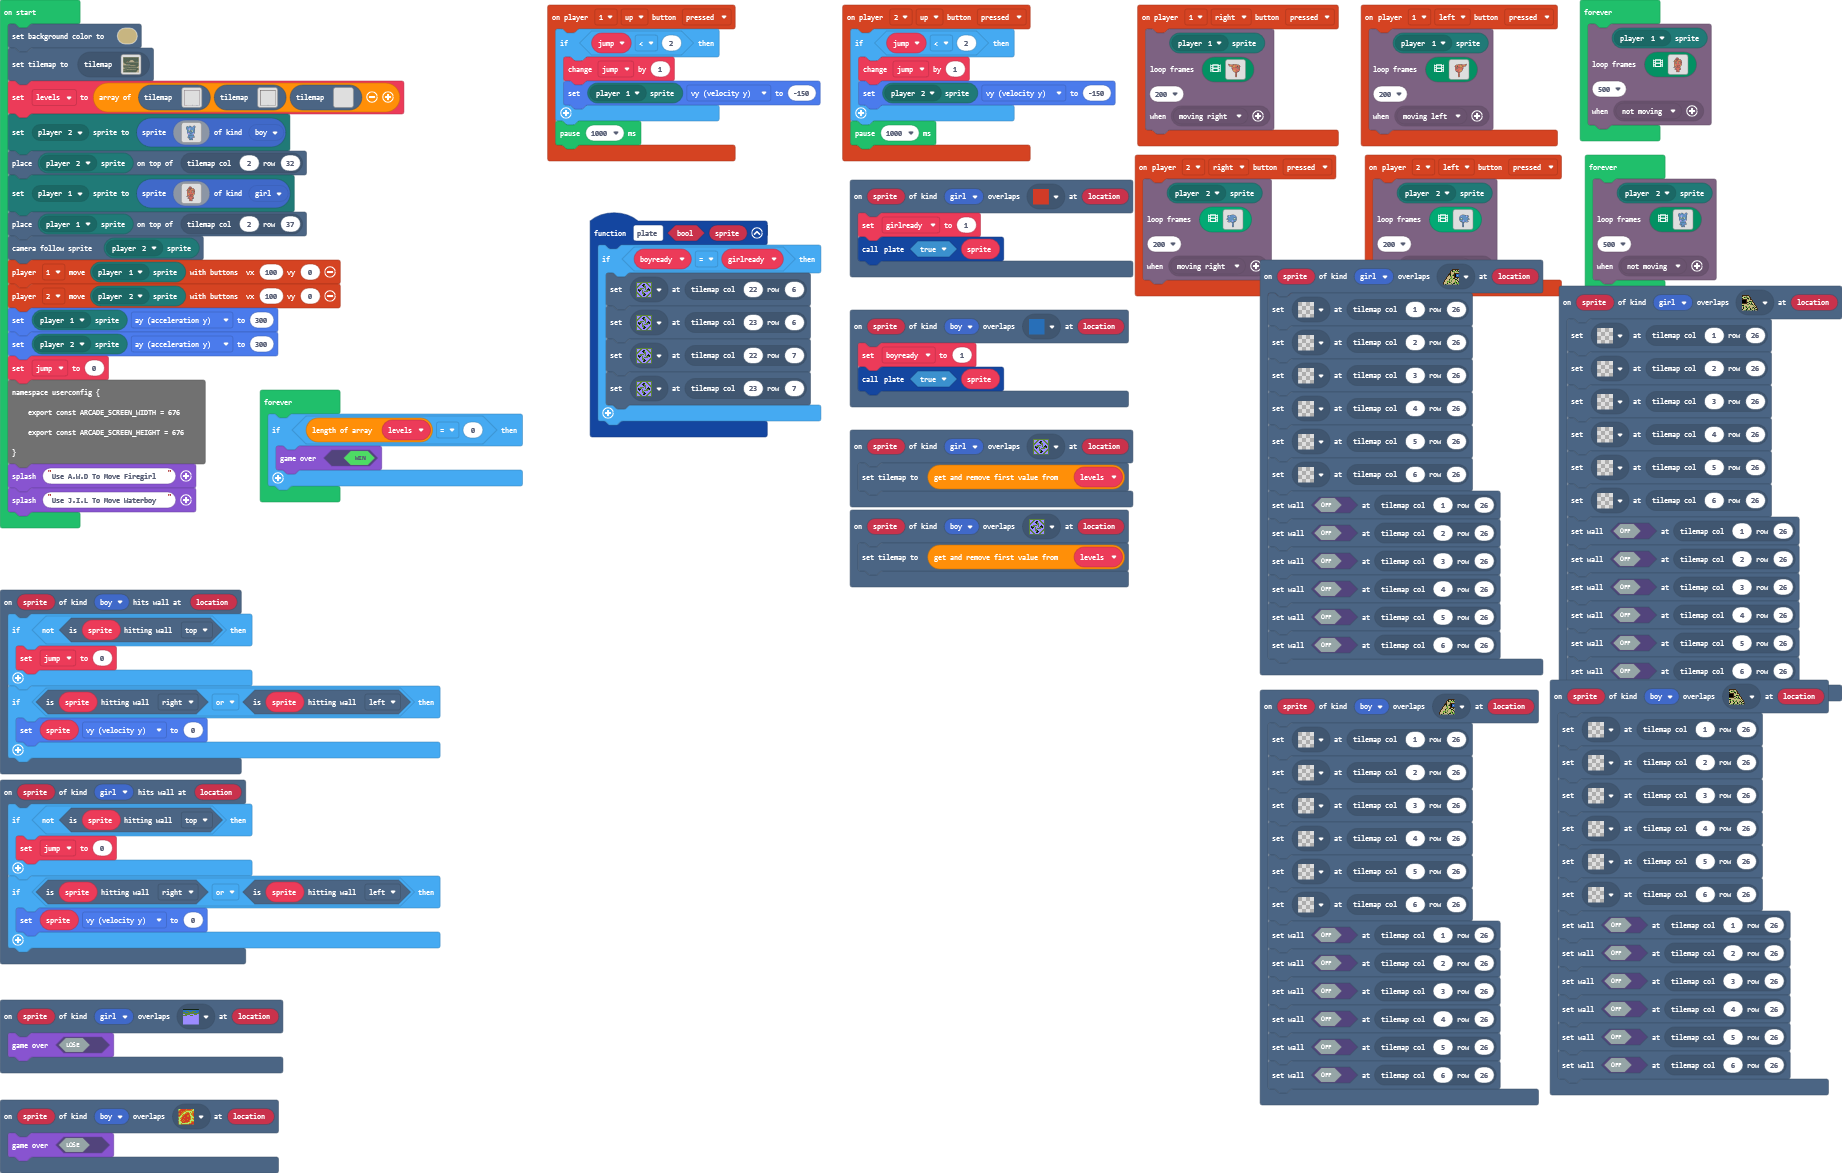
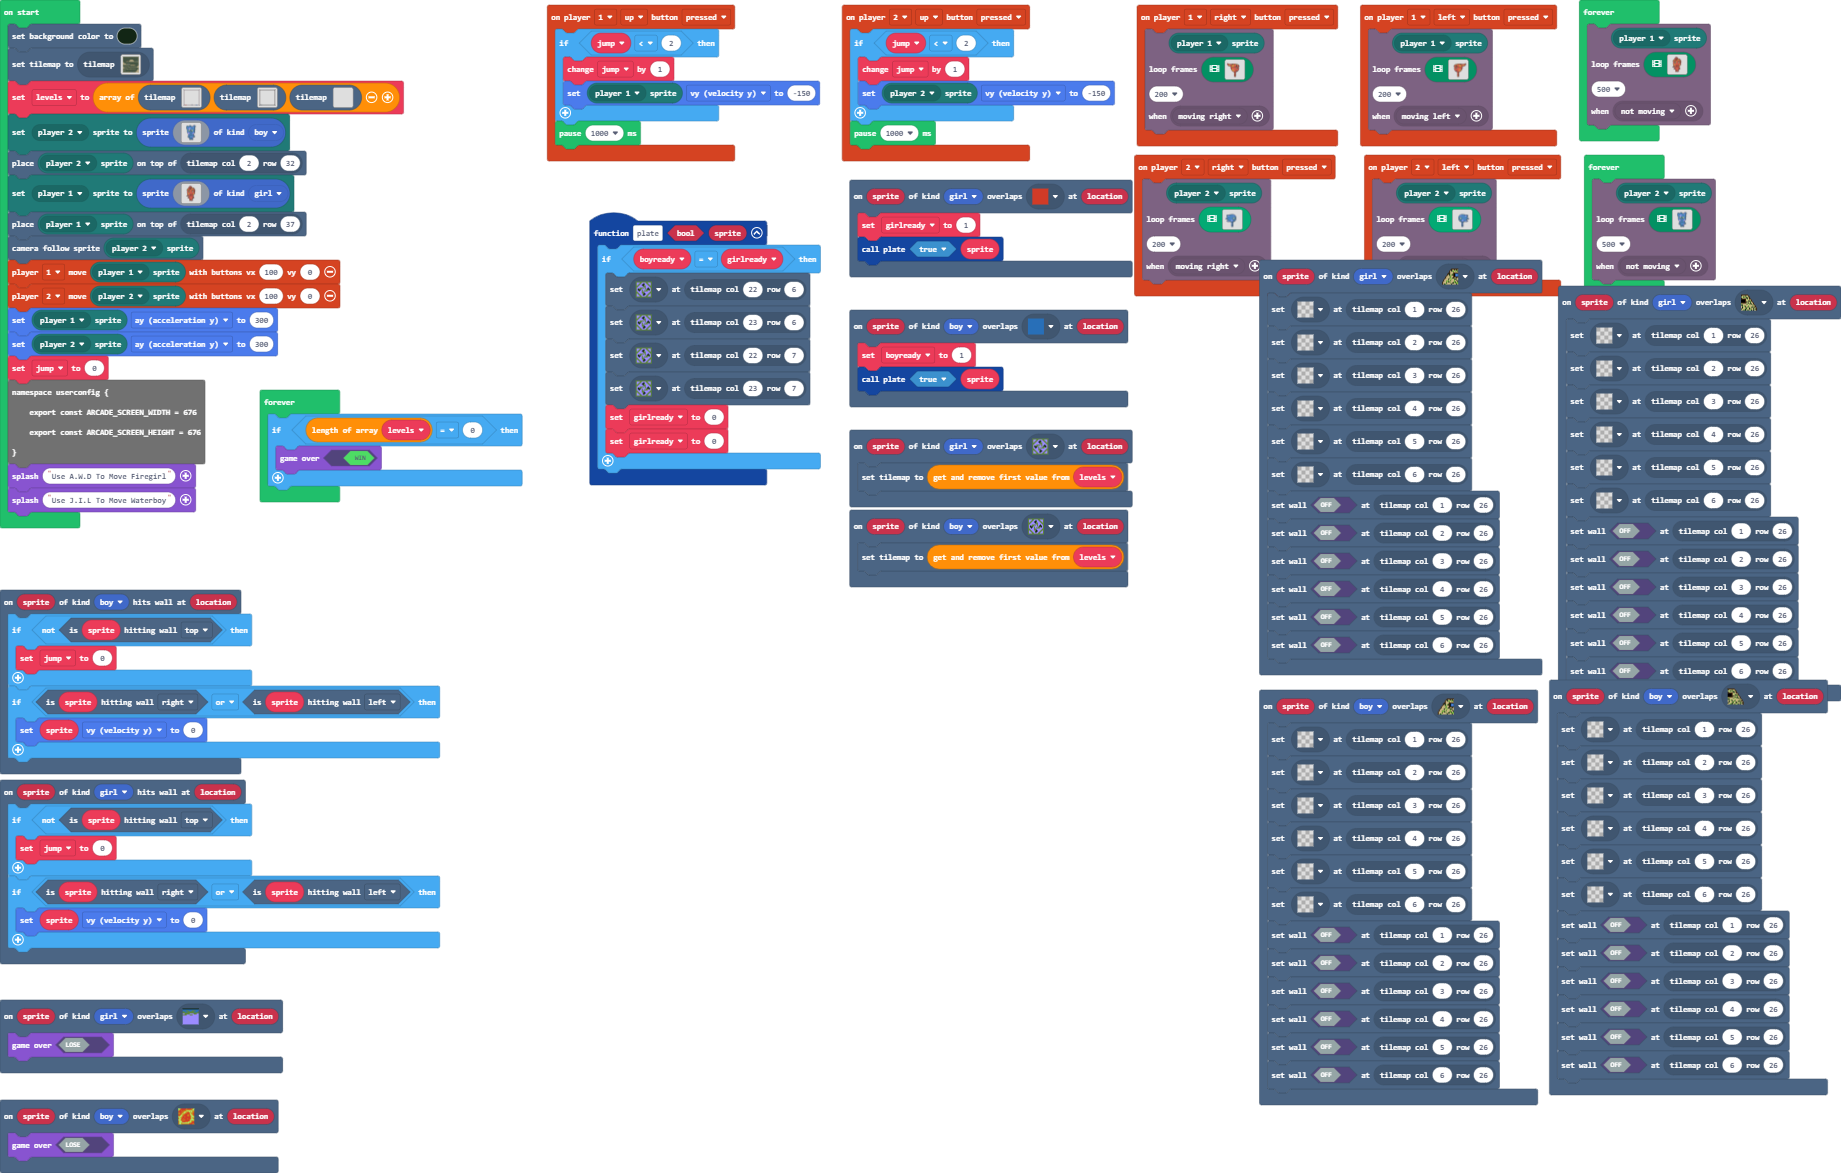
Update main.blocks, main.ts, tilemap.g.jres, tilemap.g.ts

diff --git a/tilemap.g.ts b/tilemap.g.ts
@@ -55,51 +55,6 @@ namespace myTiles {
 2........................22222
 222222222222222222222222222222
 `, [myTiles.transparency16,sprites.dungeon.floorLight0], TileScale.Sixteen);
-            case "level6":
[1 lines of base64/hex data omitted]
-222222222222222222222222222222222222222222
-2........................................2
-2........................................2
-2........................................2
-2........................................2
-2........................................2
-2........................................2
-2........................................2
-2........................................2
-2........................................2
-2........................................2
-2........................................2
-2........................................2
-2........................................2
-2........................................2
-2........................................2
-2........................................2
-2........................................2
-2........................................2
-2........................................2
-2........................................2
-2........................................2
-2........................................2
-2........................................2
-2........................................2
-2........................................2
-2........................................2
-2........................................2
-2........................................2
-2........................................2
-2........................................2
-2........................................2
-2........................................2
-2........................................2
-2........................................2
-2........................................2
-2........................................2
-2........................................2
-2........................................2
-2........................................2
-2........................................2
-222222222222222222222222222222222222222222
-`, [myTiles.transparency16,sprites.builtin.forestTiles6,sprites.builtin.forestTiles9,sprites.builtin.forestTiles11,sprites.builtin.forestTiles5,sprites.builtin.forestTiles7,sprites.builtin.forestTiles13,sprites.builtin.forestTiles15,sprites.builtin.forestTiles14,sprites.dungeon.collectibleInsignia], TileScale.Sixteen);
             case "level10":
             case "level10":return tiles.createTilemap(hex`1000100000000000000000000000000000000000000000000000000000000000000000000000000000000000000000000000000000000000000000000000000000000000000000000000000000000000000000000000000000000000000000000000000000000000000000000000000000000000000000000000000000000000000000000000000000000000000000000000000000000000000000000000000000000000000000000000000000000000000000000000000000000000000000000000000000000000000000000000000000000000000000000000000000000000000000000000000000000000000000000000000000000000000000000000000000000000`, img`
 . . . . . . . . . . . . . . . . 
@@ -209,6 +164,51 @@ namespace myTiles {
 2.................................22222222
 222222222222222...2222...22222222222222222
 `, [myTiles.transparency16,sprites.dungeon.floorLight0,sprites.dungeon.floorLightMoss,myTiles.tile1,myTiles.tile2,sprites.dungeon.hazardLava0,sprites.dungeon.hazardWater,myTiles.tile3,myTiles.tile4,myTiles.tile7,myTiles.tile8,myTiles.tile9,myTiles.tile10], TileScale.Sixteen);
+            case "level6":
[1 lines of base64/hex data omitted]
+222222222222222222222222222222222222222222
+2........................................2
+2........................................2
+2........................................2
+2........................................2
+2........................................2
+2........................................2
+2........................................2
+2........................................2
+2........................................2
+2........................................2
+2........................................2
+2........................................2
+2........................................2
+2........................................2
+2........................................2
+2........................................2
+2........................................2
+2........................................2
+2........................................2
+2........................................2
+2........................................2
+2........................................2
+2........................................2
+2........................................2
+2........................................2
+2........................................2
+2........................................2
+2........................................2
+2........................................2
+2........................................2
+2........................................2
+2........................................2
+2........................................2
+2........................................2
+2........................................2
+2........................................2
+2........................................2
+2........................................2
+2........................................2
+2........................................2
+222222222222222222222222222222222222222222
+`, [myTiles.transparency16,sprites.builtin.forestTiles6,sprites.builtin.forestTiles9,sprites.builtin.forestTiles11,sprites.builtin.forestTiles5,sprites.builtin.forestTiles7,sprites.builtin.forestTiles13,sprites.builtin.forestTiles15,sprites.builtin.forestTiles14,sprites.dungeon.collectibleInsignia], TileScale.Sixteen);
         }
         return null;
     })

diff --git a/main.ts b/main.ts
@@ -51,6 +51,8 @@ function plate (bool: boolean, sprite: Sprite) {
         tiles.setTileAt(tiles.getTileLocation(23, 6), sprites.dungeon.collectibleInsignia)
         tiles.setTileAt(tiles.getTileLocation(22, 7), sprites.dungeon.collectibleInsignia)
         tiles.setTileAt(tiles.getTileLocation(23, 7), sprites.dungeon.collectibleInsignia)
+        girlready = 0
+        girlready = 0
     }
 }
 scene.onOverlapTile(SpriteKind.girl, sprites.dungeon.hazardWater, function (sprite, location) {
@@ -672,7 +674,7 @@ let girlready = 0
 let boyready = 0
 let jump = 0
 let levels: tiles.TileMapData[] = []
-scene.setBackgroundColor(13)
+scene.setBackgroundColor(12)
 tiles.setCurrentTilemap(tilemap`Tutorial`)
 levels = [tilemap`Dark Level`, tilemap`level6`, tilemap`level10`]
 mp.setPlayerSprite(mp.playerSelector(mp.PlayerNumber.Two), sprites.create(assets.image`myImage1`, SpriteKind.boy))
